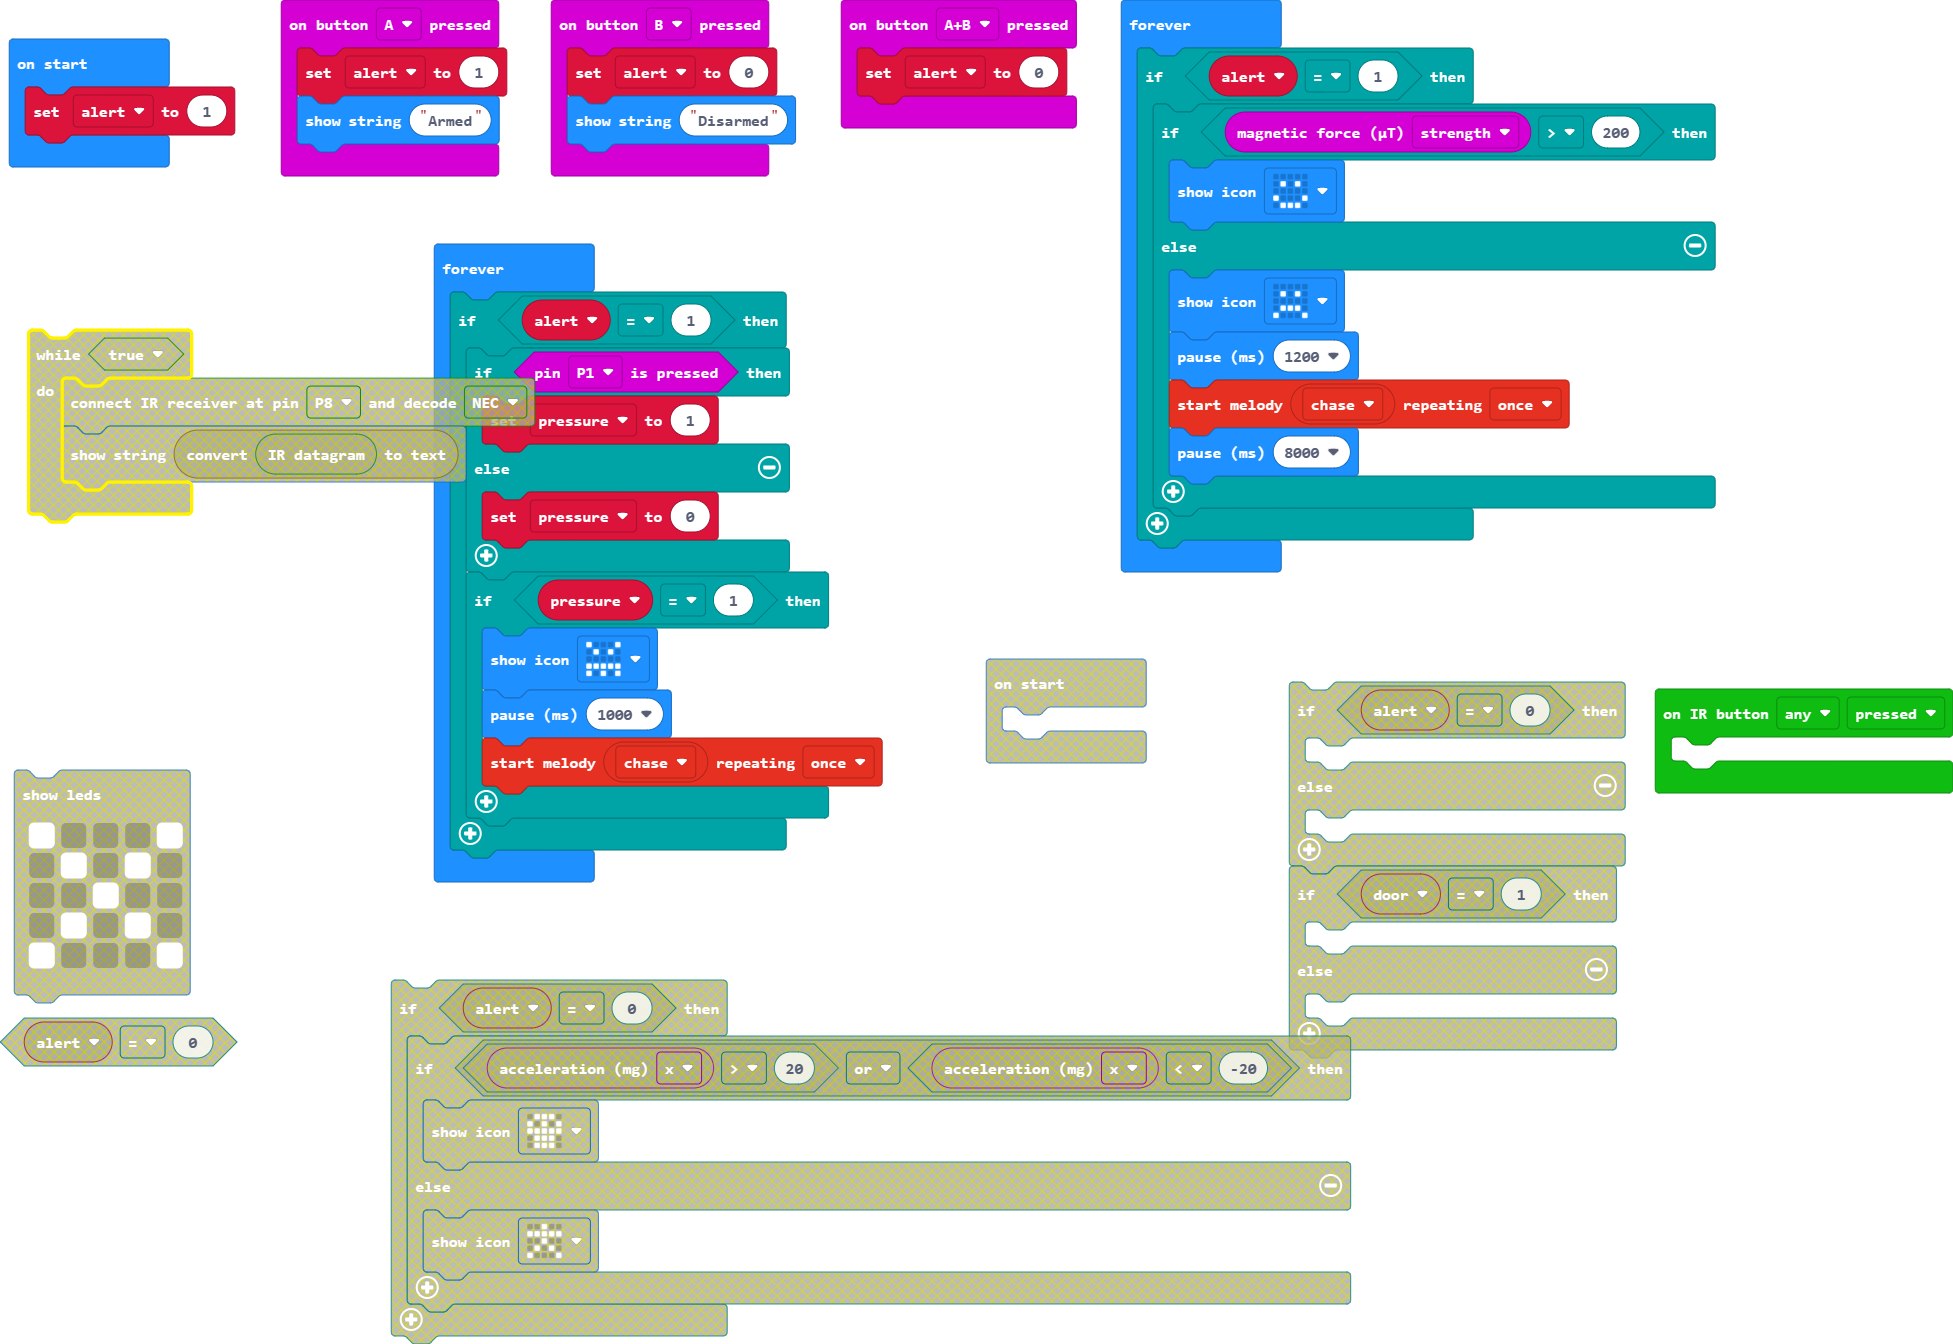
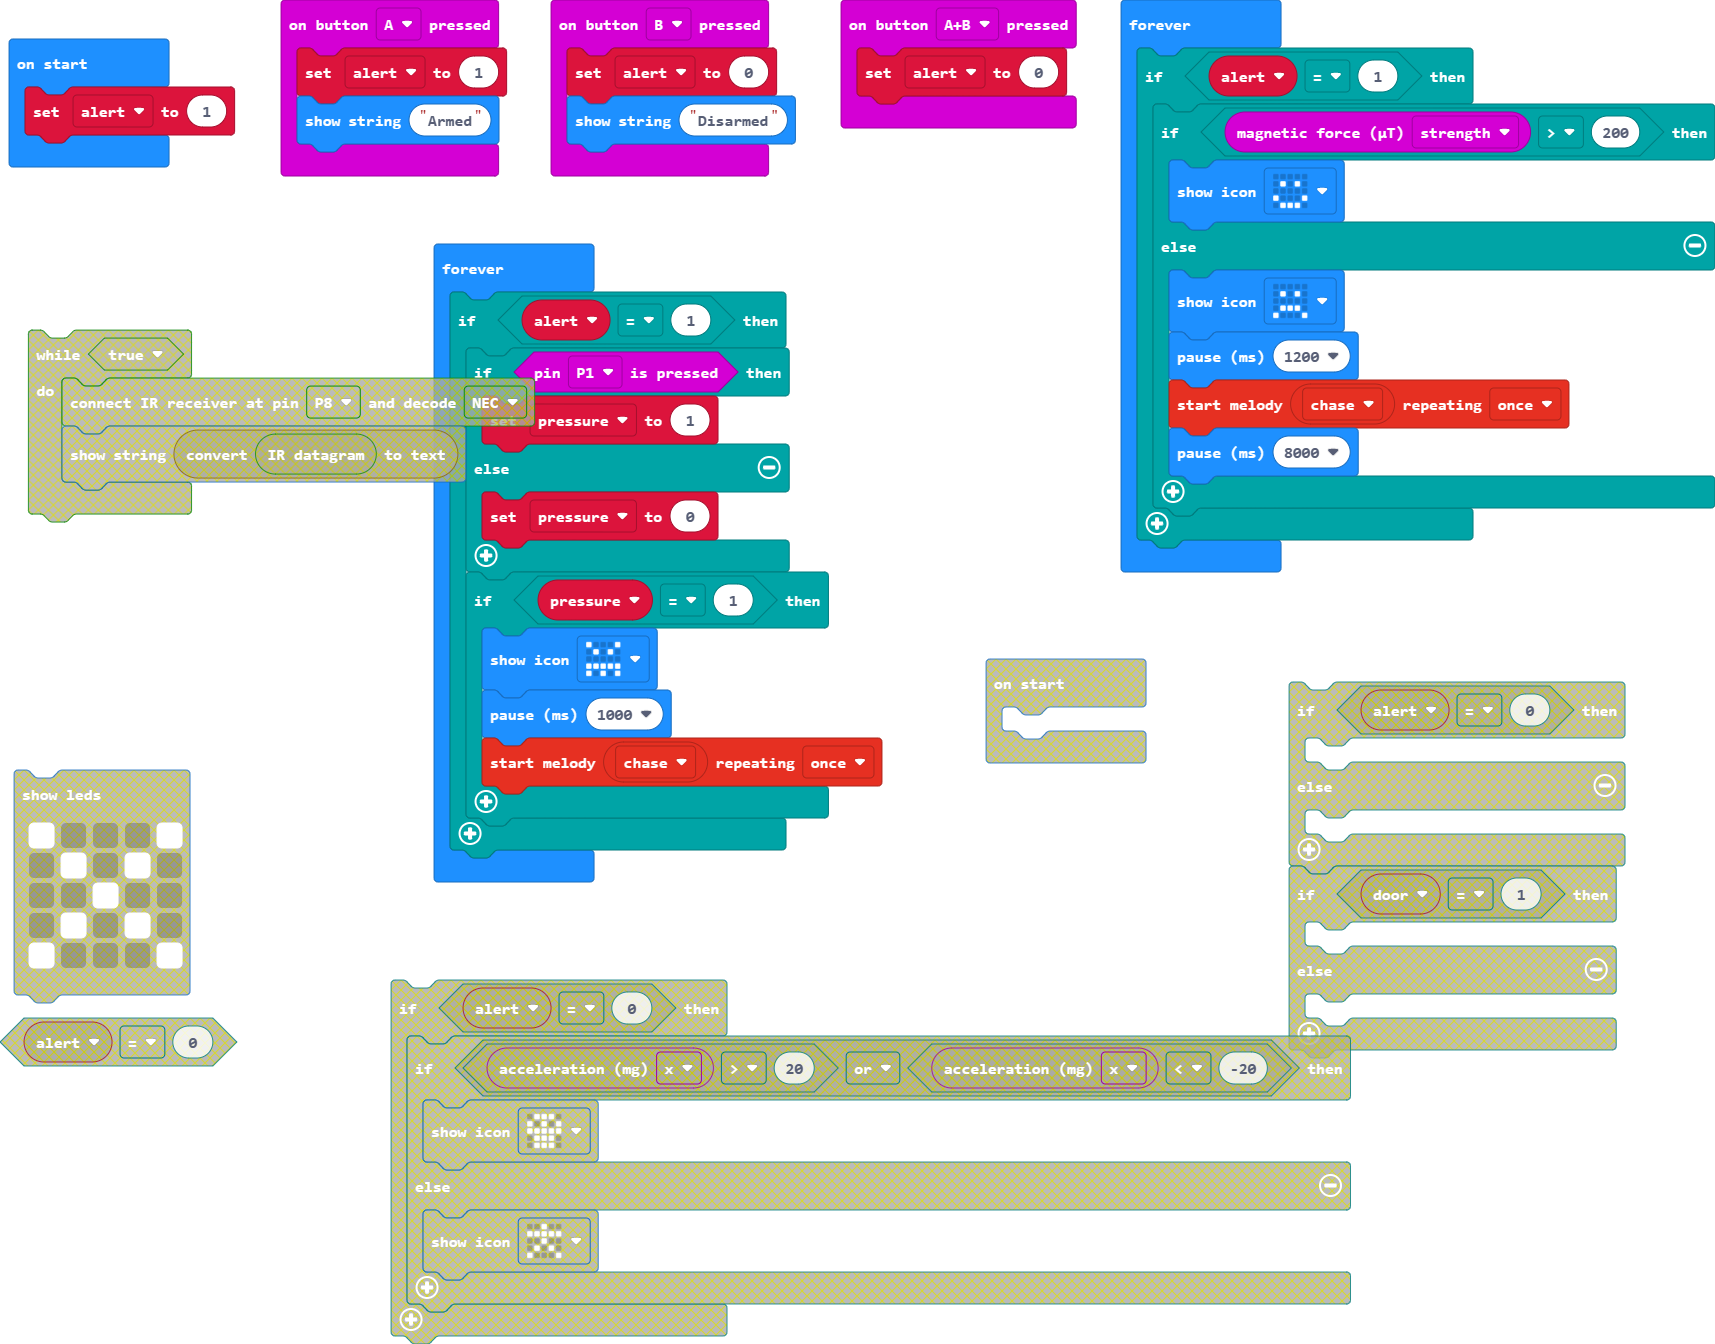
Update main.blocks, main.ts

diff --git a/main.ts b/main.ts
@@ -5,9 +5,6 @@ input.onButtonPressed(Button.A, function () {
 input.onButtonPressed(Button.AB, function () {
     alert = 0
 })
-makerbit.onIrButton(IrButton.Any, IrButtonAction.Pressed, function () {
-	
-})
 input.onButtonPressed(Button.B, function () {
     alert = 0
     basic.showString("Disarmed")
